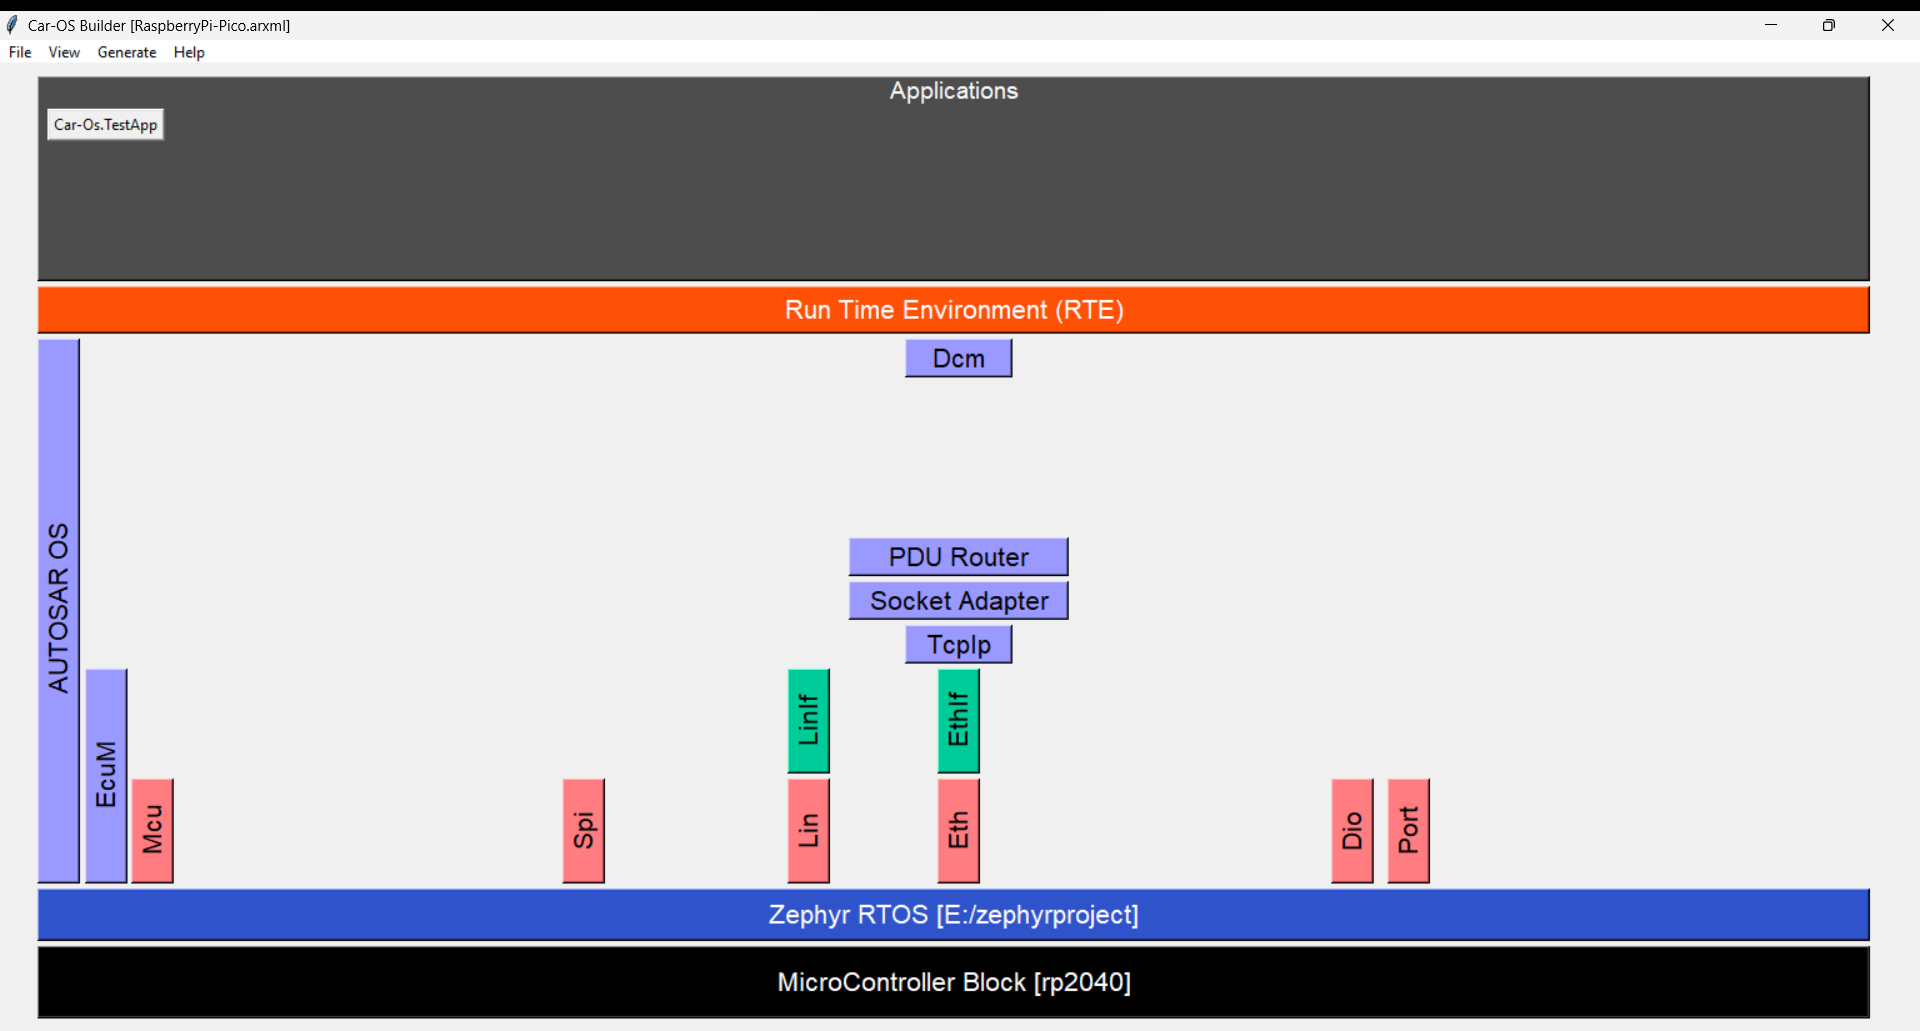
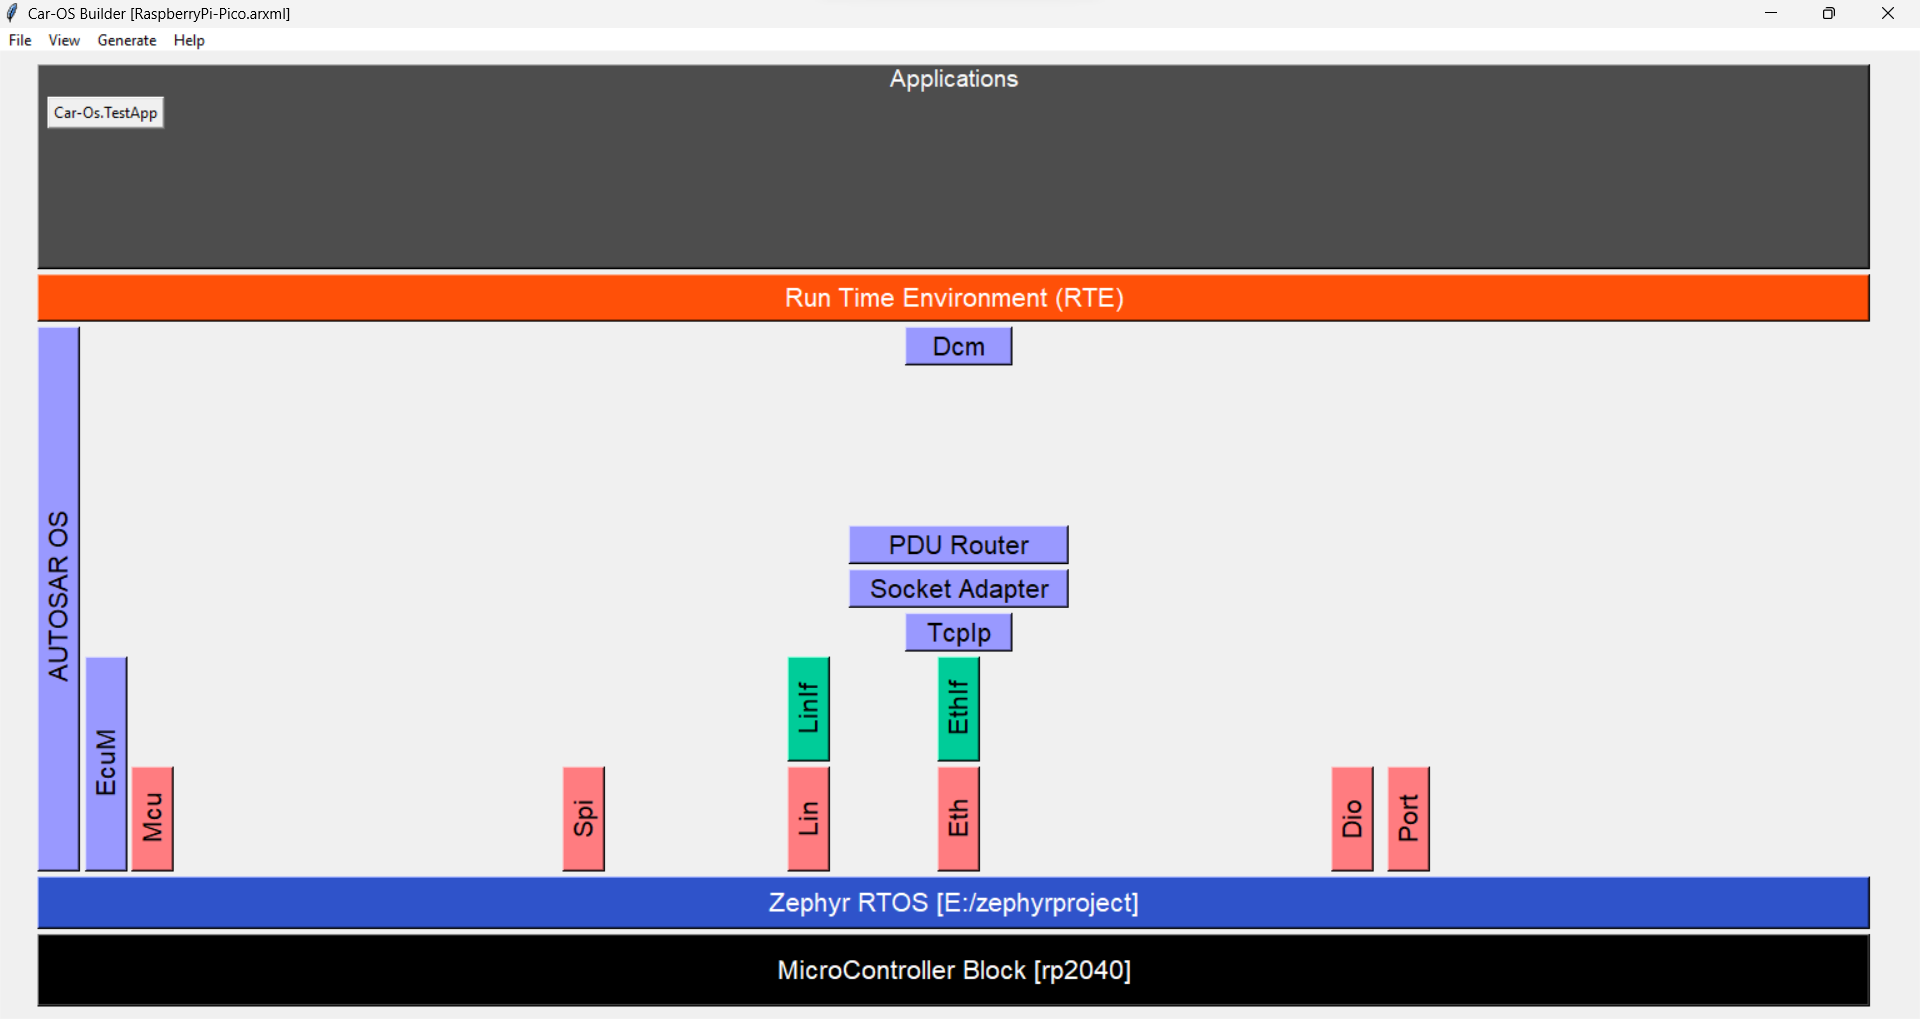
Minor changes to README.md files.

diff --git a/README.md b/README.md
@@ -1,7 +1,7 @@
 # Car-OS
 The Car here stands for <u>C</u>lassic <u>a</u>utosa<u>r</u>. This runs on top of Car-OS.Zephyr project. Refer [Car-OS.Zephyr](https://github.com/aananthcn/autosar_os-zephyr) for more details. This work is a fork from [NammaAUTOSAR](https://github.com/aananthcn/NammaAUTOSAR). To know more about the history of it, please have a look.
 
-If you invoke `python car-os/tools/autosar-gui.py` from terminal and you get the GUI as shown below. And this is referred as Car-OS Builder.<br>
+If you invoke `python car-os/tools/autosar-gui.py` from terminal and you get the GUI as shown below. And this is referred as Car-OS Builder.<br><br>
 <img src="docs/Car-OS_UI.png"  width=960 height=540>
 
 This project is created this way for following reasons:
